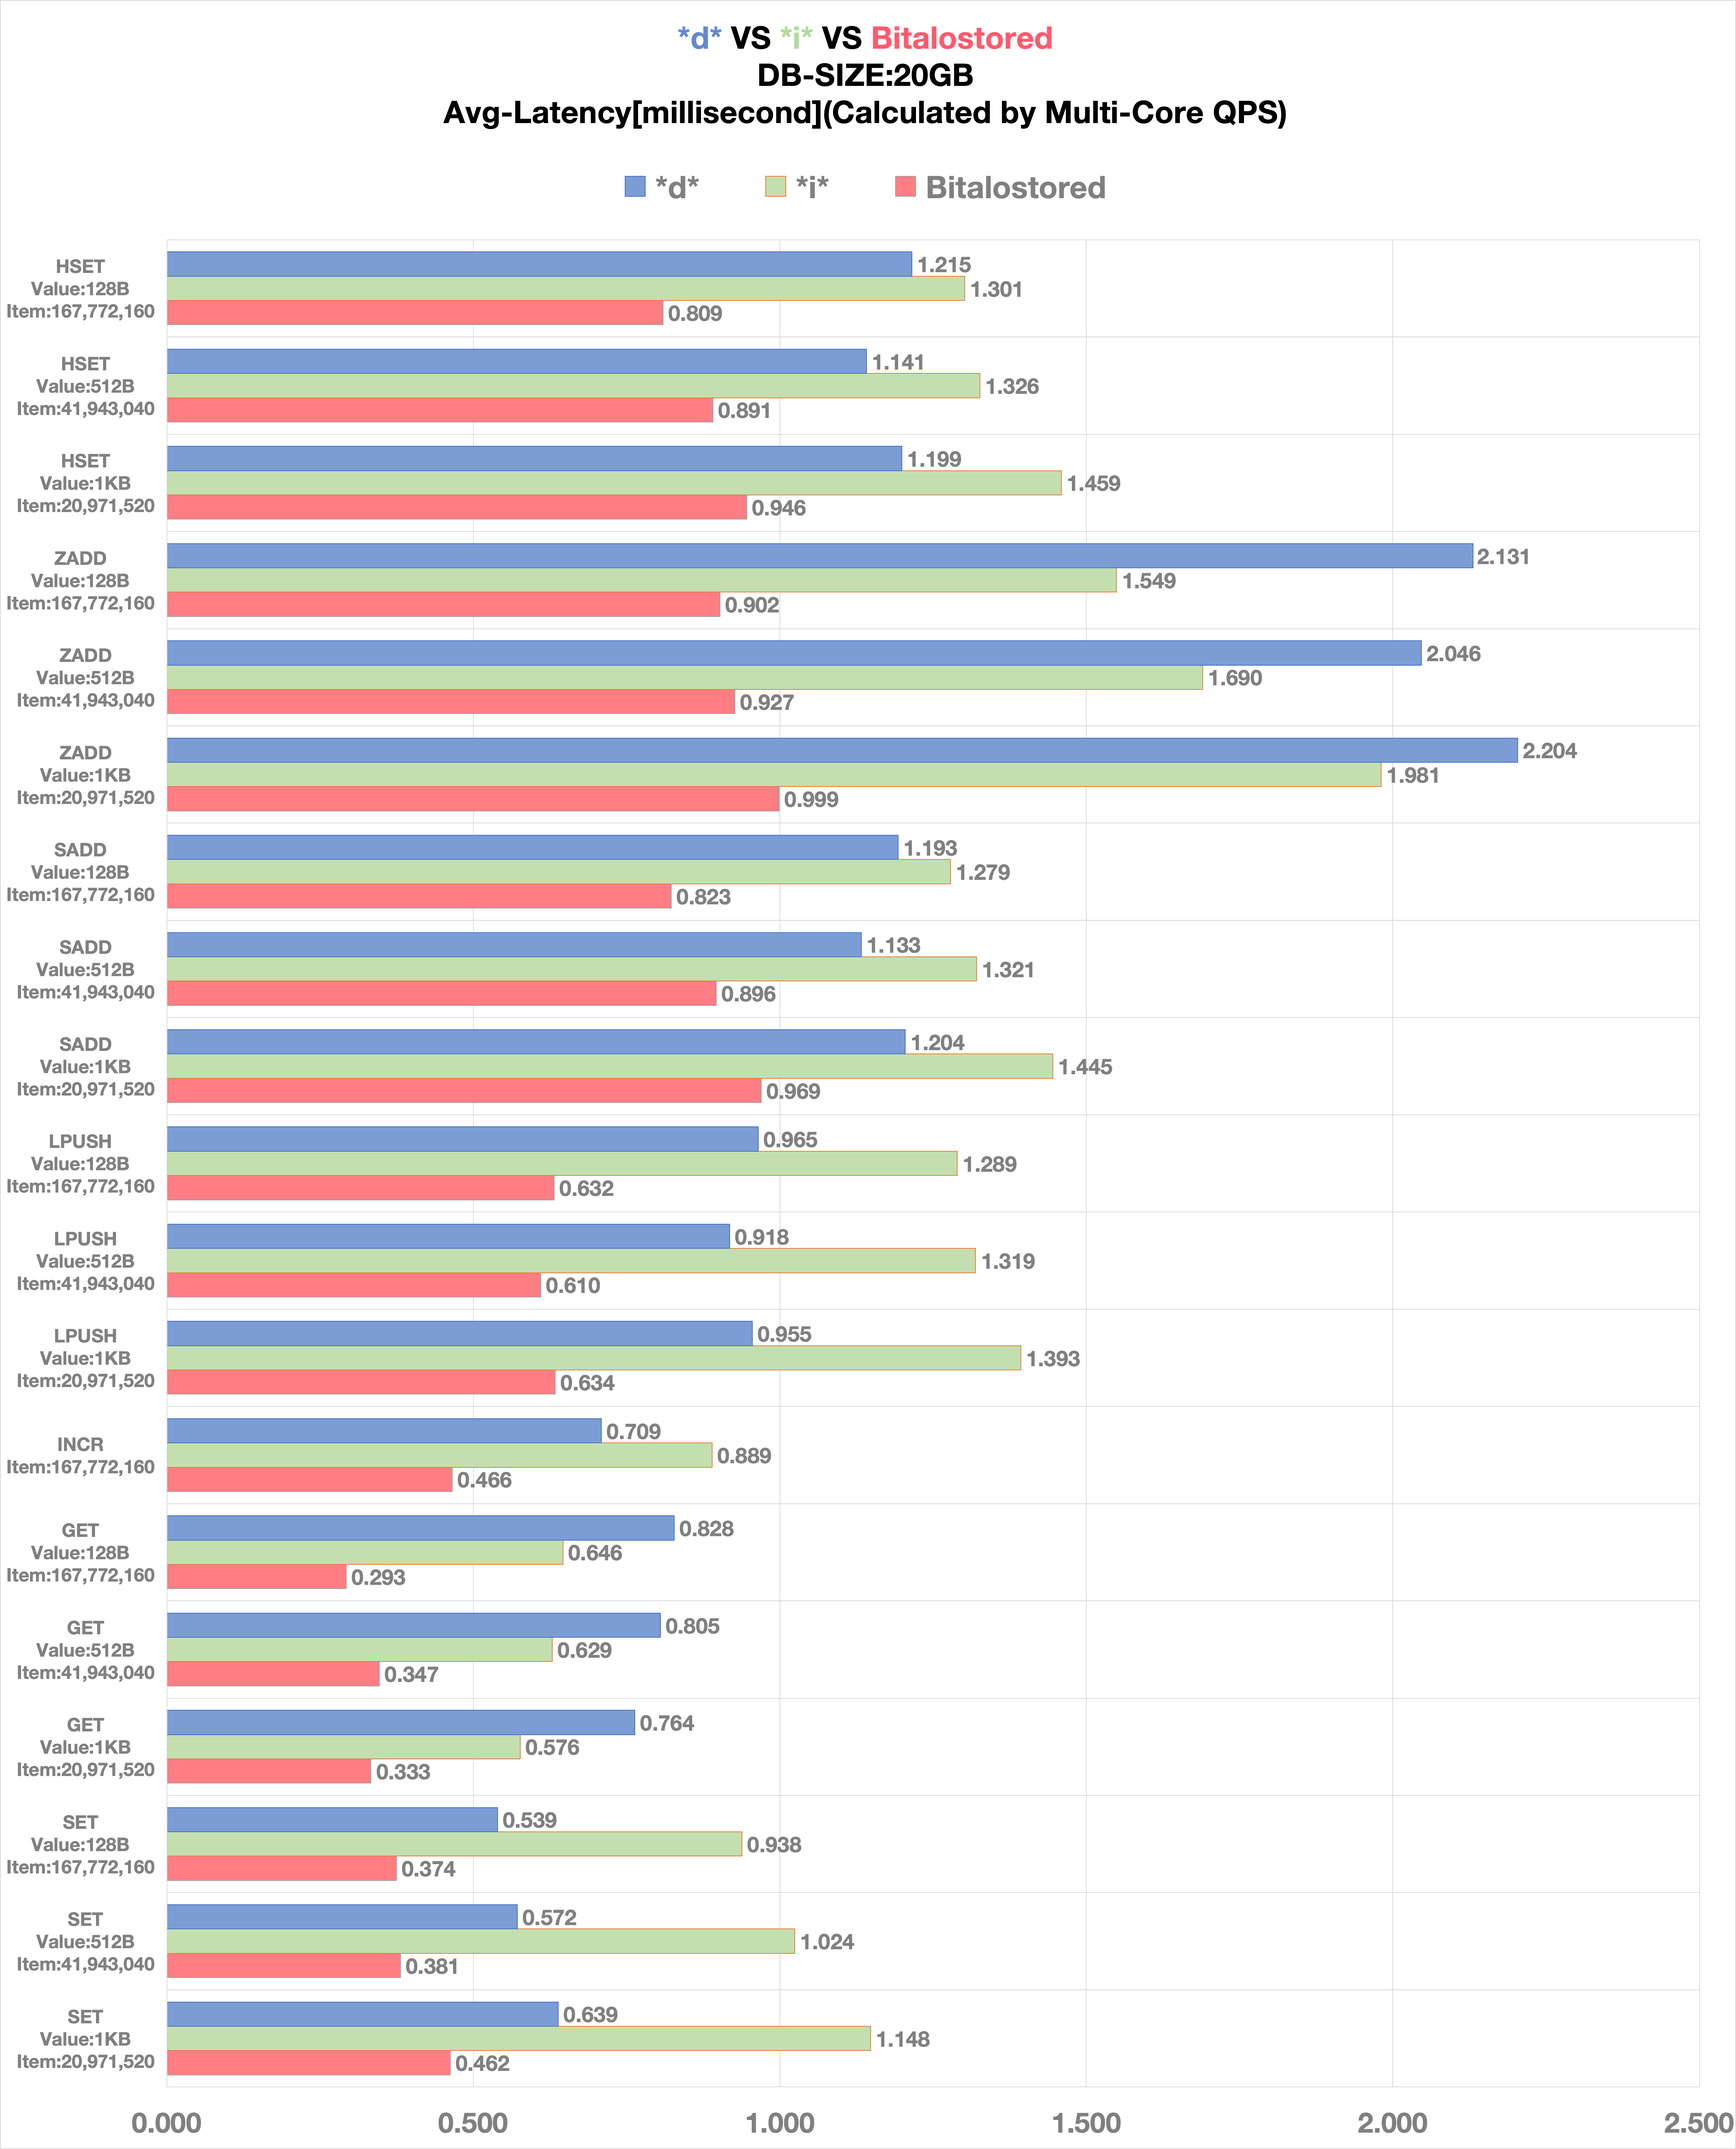
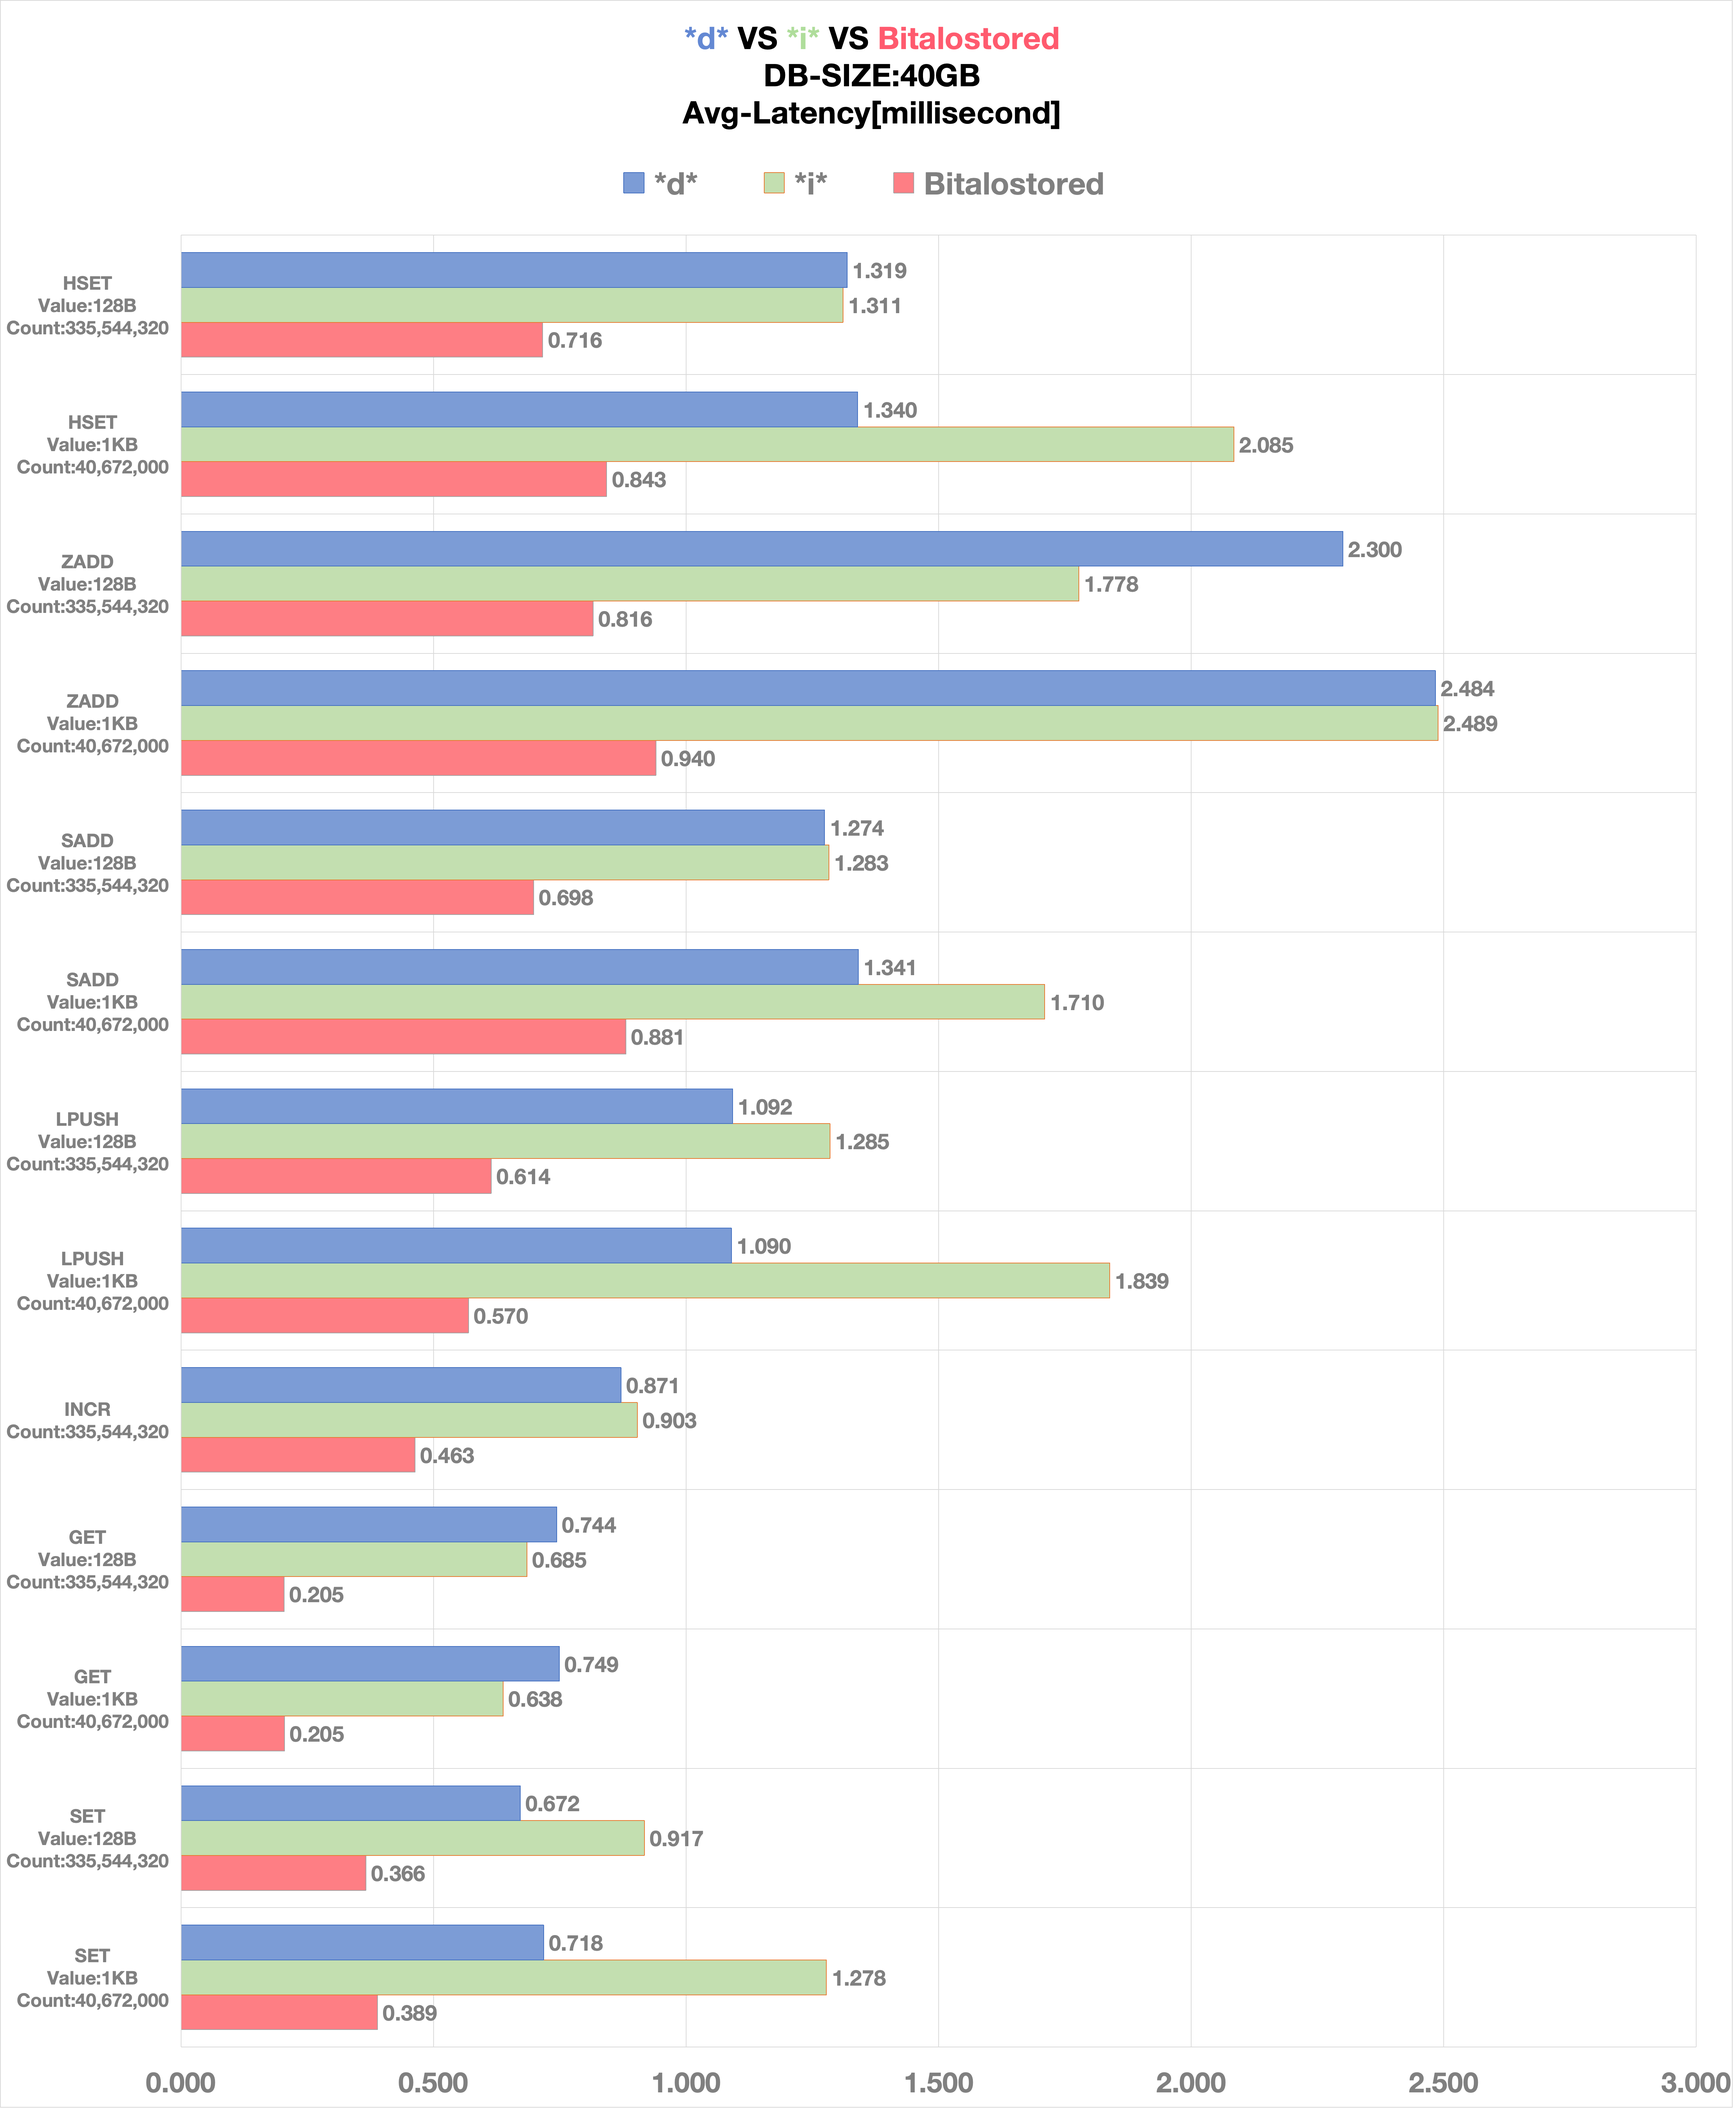
readme

Changed region(s): [[0.0, 0.0937, 1.0, 1.0], [0.2489, 0.0, 0.7468, 0.0625]]

diff --git a/README.md b/README.md
@@ -4,7 +4,7 @@
 
 ## Introduction
 
-- Bitalostored is a high-performance distributed storage system, core engine based on [bitalosdb](https://github.com/zuoyebang/bitalosdb), compatible with Redis protocol. As an alternative to Redis, it stores data with low-cost hard disk instead of expensive memory, takes full advantage of multi-core and provides excellent single-core performance, which can significantly reduce service costs.
+- Bitalostored is a high-performance distributed storage system, core engine based on [bitalosdb](https://git.zuoyebang.cc/stored-bitalosdb/bitalosdb/README.md), compatible with Redis protocol. As an alternative to Redis, it stores data with low-cost hard disk instead of expensive memory, takes full advantage of multi-core and provides excellent single-core performance, which can significantly reduce service costs.
 
 - Bitalostored contains three main projects: dashboard (visual management platform), stored (storage service), and proxy (proxy service). Current open-source version is stable, and provides a complete industrial grade solution. In Zuoyebang company, the stability of Bitalostored has been verified. Hundreds of online clusters are running stably all year round. Now data capacity is 200TB, peak QPS is 20 million, peak network bandwidth is 5000Gbps, and since v1.0 was released in 2019, there have been no online incidents.
 
@@ -44,7 +44,7 @@
 
 ## Performance
 
-There are currently several well-known open source storage systems (compatible with the redis protocol), two products (\*d\* & \*i\*) with excellent performance are chosen. This benchmark is bases on bitalostored v4.0 and two procudcts (\*d\* & \*i\*) newest version.
+There are currently several well-known open source storage systems (compatible with the redis protocol), two products (\*d\* & \*i\*) with excellent performance are chosen. This benchmark is bases on bitalostored v5.0 and two procudcts (\*d\* & \*i\*) newest version.
 
 ### Hardware
 
@@ -63,21 +63,20 @@ Disk:   2*3.5TB NVMe SSD
 - Command args: 3 data spec
 
 ```
---data-size=1024 --key-maximum=30000000 -t 8 -c 16 -n 163840 # items=20971520 (8*16*163840)
---data-size=512--key-maximum=60000000 -t 8 -c 16 -n 327680 # items=41943040 (8*16*327680)
---data-size=128 --key-maximum=200000000 -t 8 -c 16 -n 1310720 # items=167772160 (8*16*1310720)
+--data-size=1024 --key-maximum=40672038 -t 8 -c 16 -n 317750 # items=40672000 (8*16*317750)
+--data-size=128 --key-maximum=335544320 -t 8 -c 16 -n 2621440 # items=335544320 (8*16*2621440)
 ```
 
 - Command (e.g., --data-size=1024)
 
 ```
-./memtier_benchmark -t 8 -c 16 -s 127.0.0.1 -p xxxx --distinct-client-seed --command="set __key__ __data__" --key-prefix="kv_" --key-minimum=1 --key-maximum=30000000 --random-data --data-size=1024 -n 163840
-./memtier_benchmark -t 8 -c 16 -s 127.0.0.1 -p xxxx --distinct-client-seed --command="get __key__" --key-prefix="kv_" --key-minimum=1 --key-maximum=30000000 --test-time=300
-./memtier_benchmark -t 8 -c 16 -s 127.0.0.1 -p xxxx --distinct-client-seed --command="incr __key__" --key-prefix="int_" --key-minimum=1 --key-maximum=200000000 --random-data -n 1310720
-./memtier_benchmark -t 8 -c 16 -s 127.0.0.1 -p xxxx --distinct-client-seed --command="lpush __key__ __data__" --key-prefix="list_" --key-minimum=1 --key-maximum=30000000 --random-data --data-size=1024 -n 163840
-./memtier_benchmark -t 8 -c 16 -s 127.0.0.1 -p xxxx --distinct-client-seed --command="sadd __key__ __data__" --key-prefix="set_" --key-minimum=1 --key-maximum=30000000 --random-data --data-size=1024 -n 163840
-./memtier_benchmark -t 8 -c 16 -s 127.0.0.1 -p xxxx --distinct-client-seed --command="zadd __key__ __key__ __data__" --key-prefix="" --key-minimum=1 --key-maximum=30000000 --random-data --data-size=1024 -n 163840
-./memtier_benchmark -t 8 -c 16 -s 127.0.0.1 -p xxxx --distinct-client-seed --command="hset __key__ __data__ __key__" --key-prefix="hash_" --key-minimum=1 --key-maximum=30000000 --random-data --data-size=1024 -n 163840
+./memtier_benchmark -t 8 -c 16 -s 127.0.0.1 -p xxxx --distinct-client-seed --command="set __key__ __data__" --key-prefix="performance_test_key_prefix_" --key-minimum=1 --key-maximum=40672038 --random-data --data-size=1024 -n 317750
+./memtier_benchmark -t 8 -c 16 -s 127.0.0.1 -p xxxx --distinct-client-seed --command="get __key__" --key-prefix="performance_test_key_prefix_" --key-minimum=1 --key-maximum=40672038 --test-time=300
+./memtier_benchmark -t 8 -c 16 -s 127.0.0.1 -p xxxx --distinct-client-seed --command="incr __key__" --key-prefix="int_" --key-minimum=1 --key-maximum=40672038 --random-data --data-size=1024 -n 317750
+./memtier_benchmark -t 8 -c 16 -s 127.0.0.1 -p xxxx --distinct-client-seed --command="lpush __key__ __data__" --key-prefix="list_" --key-minimum=1 --key-maximum=40672038 --random-data --data-size=1024 -n 317750
+./memtier_benchmark -t 8 -c 16 -s 127.0.0.1 -p xxxx --distinct-client-seed --command="sadd __key__ __data__" --key-prefix="set_" --key-minimum=1 --key-maximum=40672038 --random-data --data-size=1024 -n 317750
+./memtier_benchmark -t 8 -c 16 -s 127.0.0.1 -p xxxx --distinct-client-seed --command="zadd __key__ __key__ __data__" --key-prefix="" --key-minimum=1 --key-maximum=40672038 --random-data --data-size=1024 -n 317750
+./memtier_benchmark -t 8 -c 16 -s 127.0.0.1 -p xxxx --distinct-client-seed --command="hset __key__ __data__ __key__" --key-prefix="hash_" --key-minimum=1 --key-maximum=40672038 --random-data --data-size=1024 -n 317750
 ```
 
 incr is irrelevant to data size, only needs to be tested once.
@@ -85,9 +84,9 @@ incr is irrelevant to data size, only needs to be tested once.
 
 ### Data
 
-- Total data size：20GB
+- Total data size：40GB
 
-- Comparison dimensions： comand（SET、GET、LPUSH、SADD、ZADD、HSET） x valueSize&count（1KB & 20,971,520、512B & 41,943,040、128B & 167,772,160）, INCR
+- Comparison dimensions： comand（SET、GET、LPUSH、SADD、ZADD、HSET） x value-size&count（1KB & 40,672,000、128B & 335,544,320）, INCR
 
 - Comparison standard: QPS on single-core (multi-core QPS / core number), single-core performance reflects cost advantage better.
 
@@ -100,7 +99,7 @@ Threads:8
 Memtable：512MB
 WAL：enable
 Binlog：disable
-Cache：8GB
+Cache：40GB
 
 Other parameters are set as same as the official recommended benchmark configuration
 ```
@@ -112,7 +111,7 @@ Threads:8
 Memtable：512MB
 WAL：enable
 Raftlog：disable
-Cache：disable
+Cache：20GB
 ```
 
 ### Result
@@ -127,7 +126,7 @@ Cache：disable
 
 ## Document
 
-Technical architecture and documentation, refer to the official website: [bitalos.zuoyebang.com](https://bitalos.zuoyebang.com)
+Technical architecture and documentation, refer to the official website: bitalos.zuoyebang.com (Building...)
 
 ## Technology accumulation(bitalosearch)
 

diff --git a/README_CN.md b/README_CN.md
@@ -2,7 +2,7 @@
 
 ## 简介
 
-- 高性能分布式存储系统，核心引擎基于[bitalosdb](https://github.com/zuoyebang/bitalosdb)，兼容redis协议；作为redis的替代品，用成本更低的硬盘存储数据，充分发挥多核优势，且单核性能优秀，可大幅降低服务成本。
+- 高性能分布式存储系统，核心引擎基于[bitalosdb](https://git.zuoyebang.cc/stored-bitalosdb/bitalosdb/README_CN.md)，兼容redis协议；作为redis的替代品，用成本更低的硬盘存储数据，充分发挥多核优势，且单核性能优秀，可大幅降低服务成本。
 
 - 开源版本，集成dashboard（可视化管理平台）、stored（存储服务）、proxy（代理服务）于一体，是完整的工业级解决方案。经历作业帮100+个集群的实践验证，存储200TB数据，峰值QPS：2000万，峰值带宽：5000Gbps；2019年发布v1.0至今线上零事故。
 
@@ -42,7 +42,7 @@
 
 ## 性能报告
 
-- bitalostored在性能上持续精进，此次性能测试基于bitalostored v4.0；当前有数款知名的开源存储系统（兼容redis协议），同为redis的替代品，选取其中性能优秀的两款产品（\*d\* 与 \*i\*）做性能对比。
+- bitalostored在性能上持续精进，此次性能测试基于bitalostored v5.0；当前有数款知名的开源存储系统（兼容redis协议），同为redis的替代品，选取其中性能优秀的两款产品（\*d\* 与 \*i\*）做性能对比。
 
 ### 硬件
 
@@ -58,23 +58,23 @@ Disk:   2*3.5TB NVMe SSD
 
 - 存储服务：线程数（8）、CPU限制（8核）
 
-- 压测命令：--data-size=1024｜512｜128、-n=20971520｜41943040｜167772160
+- 压测命令：--data-size=1024｜128、-n=40672038｜335544320
 
 ```
-./memtier_benchmark -t 8 -c 16 -s 127.0.0.1 -p xxxx --distinct-client-seed --command="set __key__ __data__" --key-prefix="kv_" --key-minimum=1 --key-maximum=30000000 --random-data --data-size=1024 -n 163840
-./memtier_benchmark -t 8 -c 16 -s 127.0.0.1 -p xxxx --distinct-client-seed --command="get __key__" --key-prefix="kv_" --key-minimum=1 --key-maximum=30000000 --test-time=300
-./memtier_benchmark -t 8 -c 16 -s 127.0.0.1 -p xxxx --distinct-client-seed --command="incr __key__" --key-prefix="int_" --key-minimum=1 --key-maximum=200000000 --random-data -n 1310720
-./memtier_benchmark -t 8 -c 16 -s 127.0.0.1 -p xxxx --distinct-client-seed --command="lpush __key__ __data__" --key-prefix="list_" --key-minimum=1 --key-maximum=30000000 --random-data --data-size=1024 -n 163840
-./memtier_benchmark -t 8 -c 16 -s 127.0.0.1 -p xxxx --distinct-client-seed --command="sadd __key__ __data__" --key-prefix="set_" --key-minimum=1 --key-maximum=30000000 --random-data --data-size=1024 -n 163840
-./memtier_benchmark -t 8 -c 16 -s 127.0.0.1 -p xxxx --distinct-client-seed --command="zadd __key__ __key__ __data__" --key-prefix="" --key-minimum=1 --key-maximum=30000000 --random-data --data-size=1024 -n 163840
-./memtier_benchmark -t 8 -c 16 -s 127.0.0.1 -p xxxx --distinct-client-seed --command="hset __key__ __data__ __key__" --key-prefix="hash_" --key-minimum=1 --key-maximum=30000000 --random-data --data-size=1024 -n 163840
+./memtier_benchmark -t 8 -c 16 -s 127.0.0.1 -p xxxx --distinct-client-seed --command="set __key__ __data__" --key-prefix="performance_test_key_prefix_" --key-minimum=1 --key-maximum=40672038 --random-data --data-size=1024 -n 317750
+./memtier_benchmark -t 8 -c 16 -s 127.0.0.1 -p xxxx --distinct-client-seed --command="get __key__" --key-prefix="performance_test_key_prefix_" --key-minimum=1 --key-maximum=40672038 --test-time=300
+./memtier_benchmark -t 8 -c 16 -s 127.0.0.1 -p xxxx --distinct-client-seed --command="incr __key__" --key-prefix="int_" --key-minimum=1 --key-maximum=40672038 --random-data --data-size=1024 -n 317750
+./memtier_benchmark -t 8 -c 16 -s 127.0.0.1 -p xxxx --distinct-client-seed --command="lpush __key__ __data__" --key-prefix="list_" --key-minimum=1 --key-maximum=40672038 --random-data --data-size=1024 -n 317750
+./memtier_benchmark -t 8 -c 16 -s 127.0.0.1 -p xxxx --distinct-client-seed --command="sadd __key__ __data__" --key-prefix="set_" --key-minimum=1 --key-maximum=40672038 --random-data --data-size=1024 -n 317750
+./memtier_benchmark -t 8 -c 16 -s 127.0.0.1 -p xxxx --distinct-client-seed --command="zadd __key__ __key__ __data__" --key-prefix="" --key-minimum=1 --key-maximum=40672038 --random-data --data-size=1024 -n 317750
+./memtier_benchmark -t 8 -c 16 -s 127.0.0.1 -p xxxx --distinct-client-seed --command="hset __key__ __data__ __key__" --key-prefix="hash_" --key-minimum=1 --key-maximum=40672038 --random-data --data-size=1024 -n 317750
 ```
 
 ### 数据
 
-- 数据总量：20GB
+- 数据总量：40GB
 
-- 对比维度：命令（SET、GET、INCR、LPUSH、SADD、ZADD、HSET） x 数据大小&条数（1KB & 20,971,520、512B & 41,943,040、128B & 167,772,160）
+- 对比维度：命令（SET、GET、INCR、LPUSH、SADD、ZADD、HSET） x 数据大小&条数（1KB & 40,672,000、128B & 335,544,320）
 
 - 对比标准：多核压测QPS换算成单核QPS对比，单核性能更能体现成本优势
 
@@ -87,7 +87,7 @@ Threads:8
 Memtable：512MB
 WAL：enable
 Binlog：disable
-Cache：8GB
+Cache：40GB
 
 其余参数使用官方推荐压测配置
 ```
@@ -99,7 +99,7 @@ Threads:8
 Memtable：512MB
 WAL：enable
 Raftlog：disable
-Cache：disable
+Cache：20GB
 ```
 
 ### 结果
@@ -114,7 +114,7 @@ Cache：disable
 
 ## 文档
 
-- 技术架构和文档，参考官网：[bitalos.zuoyebang.com](https://bitalos.zuoyebang.com)
+- 技术架构和文档，参考官网：bitalos.zuoyebang.com
 
 ## 技术积累(bitalosearch)
 
